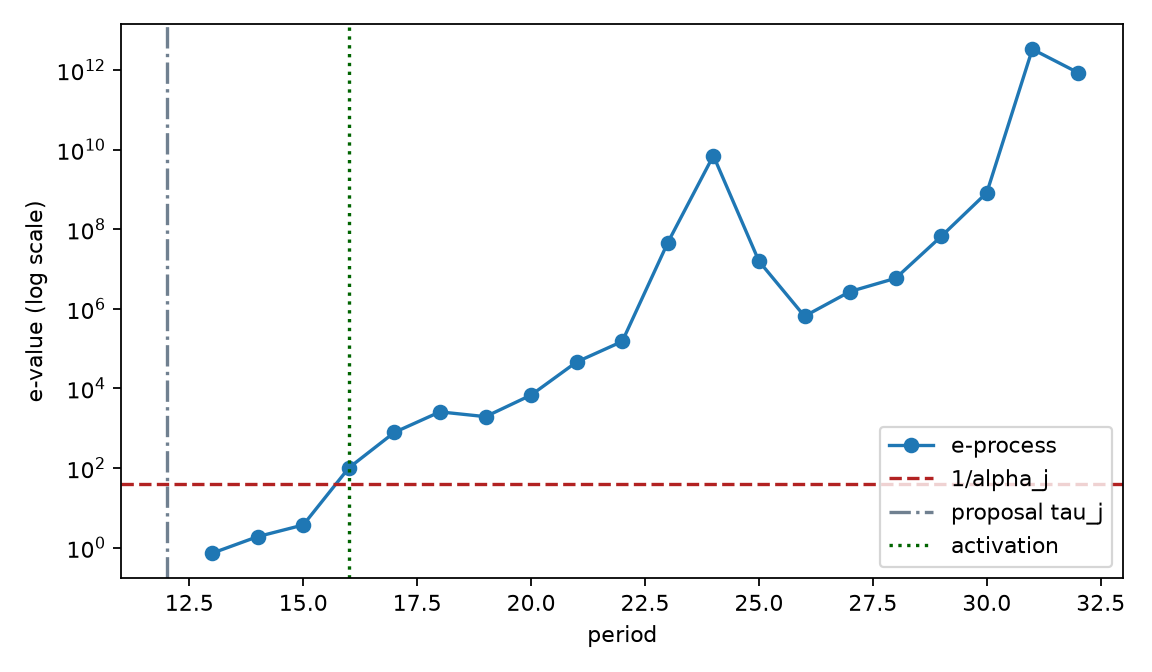
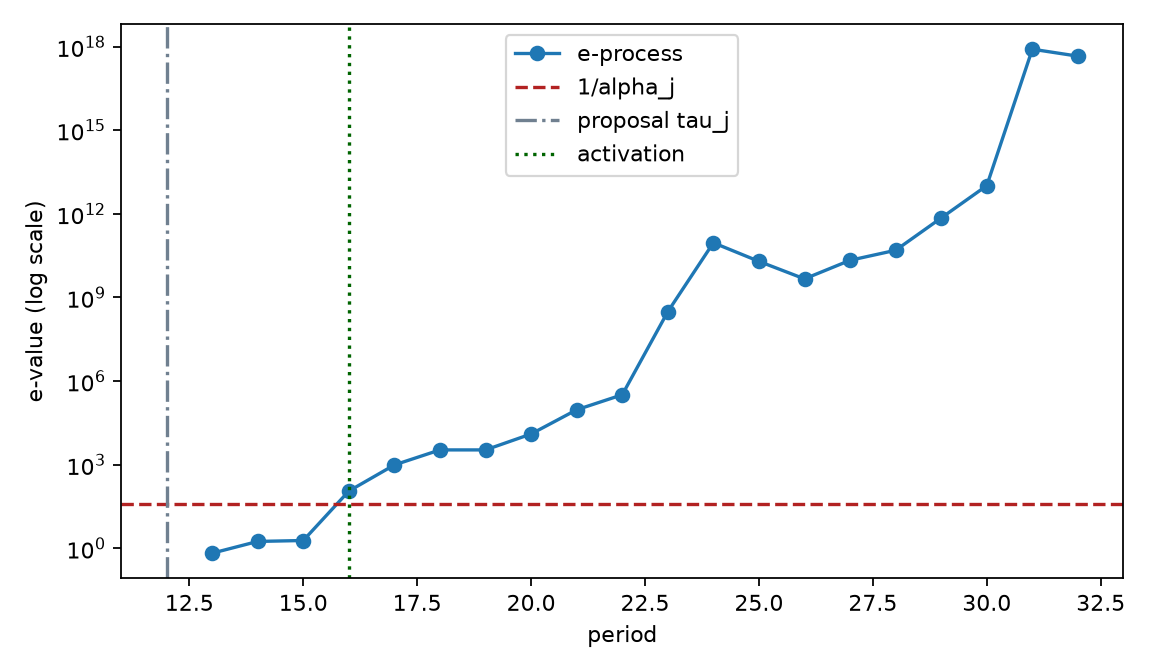
Align module 05 demand likelihood with generator

diff --git a/collie/verify/demand.py b/collie/verify/demand.py
@@ -14,7 +14,7 @@ from dataclasses import dataclass, field
 from pathlib import Path
 
 import numpy as np
-from scipy.special import gammaln, log_ndtr
+from scipy.special import gammaln, log_ndtr, logsumexp
 
 from collie.contracts import Direction, ShockFamily, ShockSpec, TargetStream, assert_no_hidden_state
 from collie.data.families.base import BaselineKind, BaselineSpec, as_demand_cells, draw_baseline
@@ -74,8 +74,8 @@ class RegisteredDemandLaw:
     plug_in: bool = False
 
     def __post_init__(self) -> None:
-        if self.multiplier <= 0.0:
-            raise ValueError(f"multiplier must be positive, got {self.multiplier}")
+        if not math.isfinite(self.multiplier) or self.multiplier <= 0.0:
+            raise ValueError(f"multiplier must be finite and positive, got {self.multiplier}")
         if self.active_duration is not None and self.active_duration < 1:
             raise ValueError(f"active_duration must be positive, got {self.active_duration}")
 
@@ -106,12 +106,8 @@ class RegisteredDemandLaw:
             return spec.mean + spec.ar_phi * (previous - spec.mean), spec.sd
         return spec.mean, spec.sd
 
-    def log_pmf(self, value: float, *, period: int, history: Sequence[float]) -> float:
-        """Log mass of the exact exposed integer-valued observable for this kernel."""
+    def _base_log_pmf(self, value: float, *, period: int, history: Sequence[float]) -> float:
         mean, sd = self._mean_sd(period, history)
-        if self._active(period):
-            mean *= self.multiplier
-
         if self.baseline.kind is BaselineKind.OVERDISPERSED and not self.plug_in:
             numeric = float(value)
             if not math.isfinite(numeric) or numeric < 0.0 or not numeric.is_integer():
@@ -129,6 +125,32 @@ class RegisteredDemandLaw:
                 + numeric * math.log1p(-probability)
             )
         return _log_rounded_normal_mass(value, mean, sd)
+
+    def log_pmf(self, value: float, *, period: int, history: Sequence[float]) -> float:
+        """Log mass of the exact exposed integer-valued observable for this kernel.
+
+        Module 01 shocks an already rounded/clipped baseline cell ``X`` and exposes
+        ``floor(multiplier * X + 0.5)``. Summing the baseline masses over that integer map's
+        preimage matches the generator exactly; merely shifting a Gaussian mean would not.
+        """
+        numeric = float(value)
+        if not math.isfinite(numeric) or numeric < 0.0 or not numeric.is_integer():
+            return -math.inf
+        if not self._active(period) or self.multiplier == 1.0:
+            return self._base_log_pmf(numeric, period=period, history=history)
+
+        lower = max(0, math.ceil((numeric - 0.5) / self.multiplier))
+        upper = math.ceil((numeric + 0.5) / self.multiplier) - 1
+        if upper < lower:
+            return -math.inf
+        return float(
+            logsumexp(
+                [
+                    self._base_log_pmf(source, period=period, history=history)
+                    for source in range(lower, upper + 1)
+                ]
+            )
+        )
 
 
 @dataclass(frozen=True, slots=True)
@@ -289,6 +311,12 @@ class DemandEProcess:
         return self._engine.validity_label
 
     def observe(self, period: int, value: float) -> EProcessPoint:
+        # Reject the post-selection boundary before even evaluating a density.  The shared engine
+        # repeats this guard so direct users receive the same protection.
+        if period <= self.tau_j:
+            raise ValueError(
+                f"future-only violation: period {period} is not strictly after tau_j={self.tau_j}"
+            )
         log_null = self.null.log_pmf(value, period=period, history=self._history)
         if log_null == -math.inf:
             raise ValueError(

diff --git a/tests/test_eprocess_demand.py b/tests/test_eprocess_demand.py
@@ -18,6 +18,7 @@ from collie.contracts import (
     TargetStream,
 )
 from collie.data.families.base import BaselineKind, BaselineSpec
+from collie.data.families.base import as_demand_cells as generator_round_and_clip
 from collie.verify.demand import DemandEProcess, RegisteredDemandLaw
 from collie.verify.eprocess import NO_FINITE_SAMPLE_GUARANTEE, MixtureEProcess
 from collie.verify.registry import CONSTRUCTIONS, resolve_construction, resolve_spec_shape
@@ -91,11 +92,33 @@ def test_overdispersed_null_is_a_probability_distribution() -> None:
     assert mass == pytest.approx(1.0, abs=1e-11)
 
 
+@pytest.mark.parametrize("multiplier", [0.6, 0.75, 1.25, 1.5, 2.0])
+def test_registered_shock_matches_generator_observable_transform(multiplier: float) -> None:
+    baseline = RegisteredDemandLaw(BaselineSpec(mean=20.0, sd=5.0))
+    shocked = RegisteredDemandLaw(
+        BaselineSpec(mean=20.0, sd=5.0), multiplier=multiplier, active_from=1
+    )
+    expected: dict[int, float] = {}
+    for source in range(100):
+        exposed = int(generator_round_and_clip((source * multiplier,))[0])
+        expected[exposed] = expected.get(exposed, 0.0) + math.exp(
+            baseline.log_pmf(source, period=1, history=())
+        )
+    for exposed, probability in expected.items():
+        assert math.exp(shocked.log_pmf(exposed, period=1, history=())) == pytest.approx(
+            probability, abs=1e-12
+        )
+    total = math.fsum(
+        math.exp(shocked.log_pmf(exposed, period=1, history=())) for exposed in range(200)
+    )
+    assert total == pytest.approx(1.0, abs=1e-11)
+
+
 def test_e_process_is_a_supermartingale_under_the_null() -> None:
     rng = np.random.default_rng(20260907)
     null = RegisteredDemandLaw(BaselineSpec(mean=100.0, sd=25.0))
     alternative = RegisteredDemandLaw(
-        BaselineSpec(mean=100.0, sd=25.0), multiplier=1.5, active_from=1
+        BaselineSpec(mean=100.0, sd=25.0), multiplier=1.25, active_from=1
     )
     draws = np.floor(rng.normal(100.0, 25.0, 50_000) + 0.5).clip(min=0.0)
     ratios = np.fromiter(
@@ -108,7 +131,9 @@ def test_e_process_is_a_supermartingale_under_the_null() -> None:
         ),
         dtype=float,
     )
-    assert float(ratios.mean()) == pytest.approx(1.0, abs=0.025)
+    standard_error = float(ratios.std(ddof=1) / math.sqrt(len(ratios)))
+    assert standard_error < 0.02
+    assert abs(float(ratios.mean()) - 1.0) <= 4.0 * standard_error
 
 
 def test_registered_component_has_exact_unit_null_mean() -> None:

diff --git a/tests/test_verifier_isolation.py b/tests/test_verifier_isolation.py
@@ -35,12 +35,18 @@ def test_verifier_reads_no_forbidden_input() -> None:
         for node in ast.walk(tree):
             if isinstance(node, ast.Name) and node.id in FORBIDDEN_SYMBOLS:
                 offenders.append(f"{path.name}:{node.lineno}:{node.id}")
+            if isinstance(node, ast.Import):
+                for alias in node.names:
+                    if alias.name == "collie.control.ledger":
+                        offenders.append(f"{path.name}:{node.lineno}:{alias.name}")
             if isinstance(node, ast.ImportFrom):
                 if node.module == "collie.control.ledger":
                     offenders.append(f"{path.name}:{node.lineno}:{node.module}")
                 for alias in node.names:
                     if alias.name in FORBIDDEN_SYMBOLS:
                         offenders.append(f"{path.name}:{node.lineno}:{alias.name}")
+                    if node.module == "collie.control" and alias.name == "ledger":
+                        offenders.append(f"{path.name}:{node.lineno}:collie.control.ledger")
             if isinstance(node, ast.Attribute) and node.attr in FORBIDDEN_ATTRIBUTES:
                 offenders.append(f"{path.name}:{node.lineno}:{node.attr}")
             if isinstance(node, ast.Constant) and isinstance(node.value, str):

diff --git a/reports/module05_cp1.md b/reports/module05_cp1.md
@@ -4,11 +4,11 @@ Module: `05-verifier`, Checkpoint 1
 
 Command: `uv run pytest tests/test_alpha.py tests/test_eprocess_demand.py tests/test_verifier_isolation.py -v`
 
-Result: `30 passed`
+Result: `35 passed`
 
 Command: `uv run pytest tests/test_calibration.py -k demand --replications 200`
 
-Result: `4 passed`; false activations were stationary IID `4/200`, seasonal `4/200`,
+Result: `4 passed`; false activations were stationary IID `4/200`, seasonal `1/200`,
 overdispersed `3/200`, and dependent `3/200`. All rates are at or below the proposal allocation
 `alpha_1 = 0.025`. The dependent row is explicitly empirical-only.
 
@@ -18,8 +18,10 @@ Built:
 - Frozen, log-space discrete-mixture likelihood-ratio e-processes starting strictly after `tau_j`,
   with sticky activation only at `E >= 1/alpha_j`.
 - A construction registry plus rejection of mismatched family/signature, stream, and direction.
-- Exact exposed-observable masses for rounded/clipped Gaussian and negative-binomial demand nulls;
-  the separately labelled plug-in path carries no finite-sample guarantee.
+- Exact exposed-observable masses for rounded/clipped Gaussian and negative-binomial demand nulls,
+  plus exact alternative masses under Module 01's round-scale-round shock transform for all five
+  registered demand multipliers; the separately labelled plug-in path carries no finite-sample
+  guarantee.
 - A reproducible registered demand episode whose trace plot shows the evidence path, threshold 40,
   proposal at period 12, and realised activation at period 16.
 

diff --git a/prereg/deviations.md b/prereg/deviations.md
@@ -7,7 +7,7 @@ change without leaving a trace.
 ### 2026-09-07 — rounded dependent demand remains empirical-only
 
 - **Artefact:** `collie/verify/demand.py`
[2 lines of base64/hex data omitted]
 - **Departure:** The dependent AR(1) null is exercised in reduced calibration but labelled
   `no_finite_sample_guarantee`; it is not included in the theorem-backed demand claim.
 - **Reason:** Module 01 exposes only rounded/clipped AR(1) observations. The exact conditional mass
